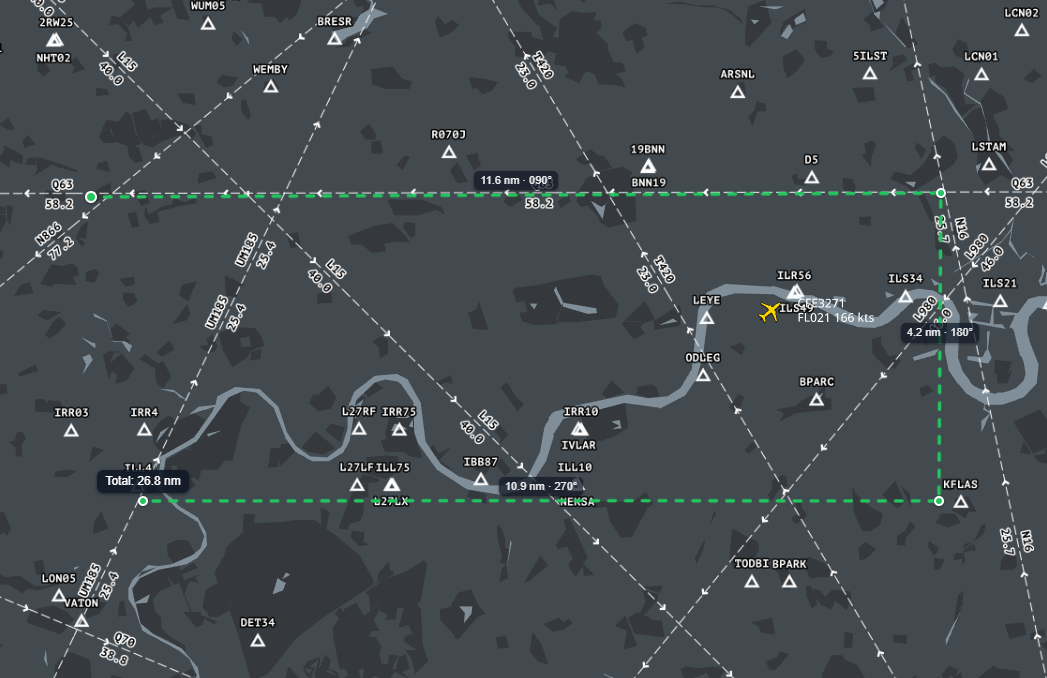
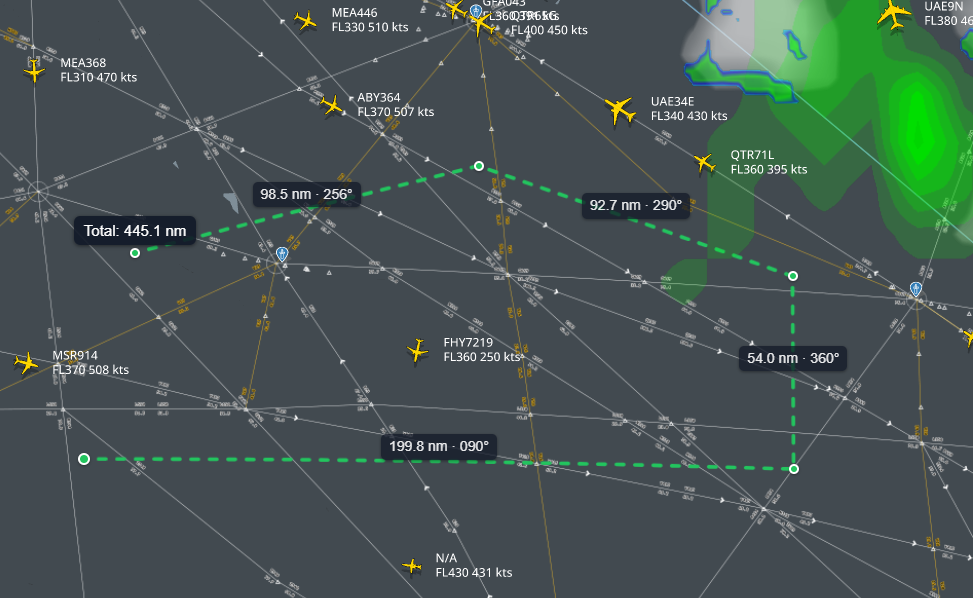
Update screenshots and README with label size feature

diff --git a/README.md b/README.md
@@ -13,7 +13,7 @@ Click to place waypoints and build up a multi-leg route across the map. Each seg
 Every segment shows a label at its midpoint with the distance and magnetic bearing - for example `12.4 nm / 045°`. Labels stay anchored to their geographic position as you pan and zoom.
 
 **Configurable line appearance**
-Line colour, style (solid, dashed, dotted), and thickness are adjustable from the settings flyout. Six preset colours are available. Settings persist across page reloads.
+Line colour, style (solid, dashed, dotted), thickness, and label size are adjustable from the settings flyout. Six preset colours are available. Settings persist across page reloads.
 
 **Right-click controls**
 Right-click anywhere on the map to enable the tool, clear the active line mid-draw, or disable the tool when idle - without moving the mouse to the button.
@@ -21,7 +21,7 @@ Right-click anywhere on the map to enable the tool, clear the active line mid-dr
 <table>
   <tr>
     <td><img src="screenshots/multi-segment-route.PNG" width="620"/></td>
-    <td><img src="screenshots/settings-flyout.png" width="251"/></td>
+    <td><img src="screenshots/settings-flyout.png" width="257"/></td>
   </tr>
   <tr>
     <td align="center">Multi-segment route measurement</td>
@@ -66,6 +66,7 @@ Changing any setting in the flyout automatically enables the tool.
 | Unit | Nautical miles (nm), Kilometres (km), Miles (mi) |
 | Line style | Solid, Dashed, Dotted |
 | Line width | 1 to 8 (stepper) |
+| Label size | 1 to 3 (stepper) |
 
 ---
 
